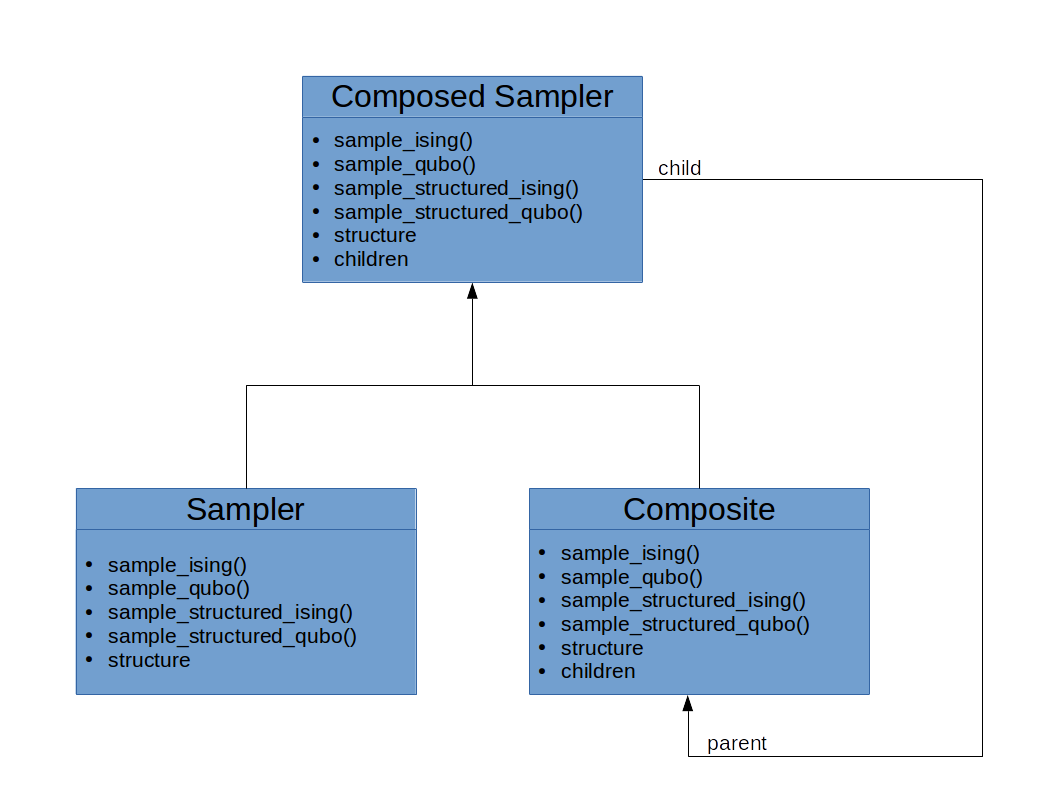
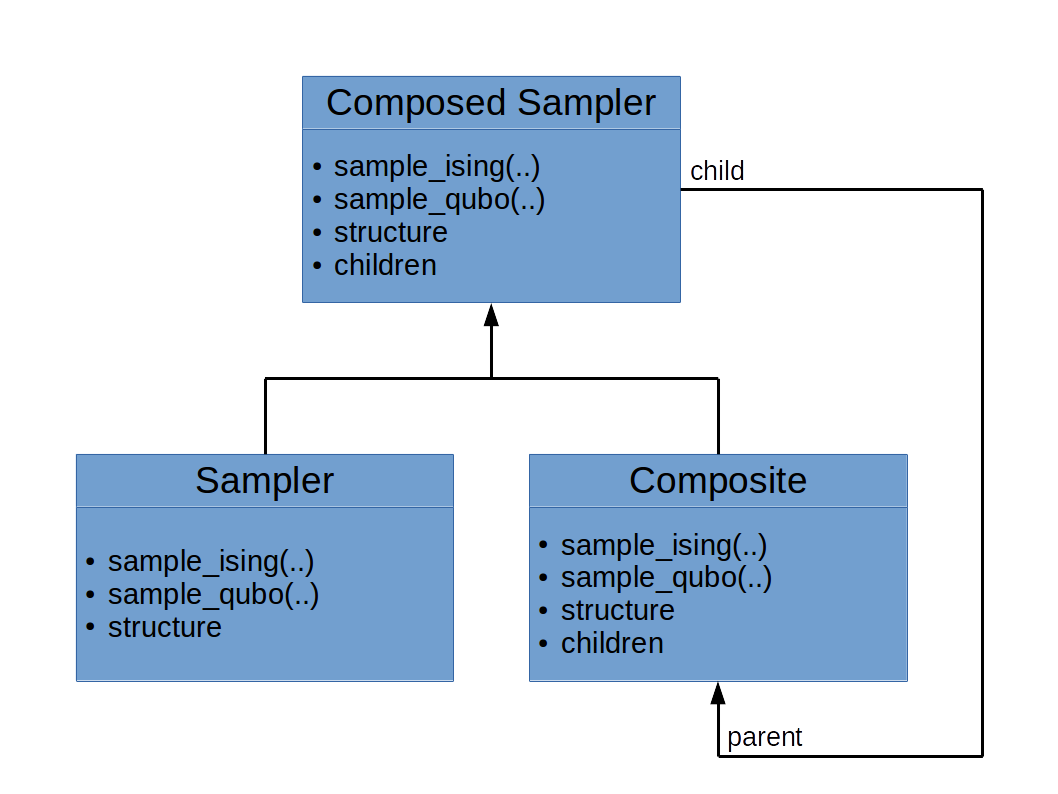
updated documenation to reflect removal of structured methods

Changed region(s): [[0.2495, 0.0907, 0.9357, 0.9673], [0.0624, 0.5441, 0.4367, 0.8766]]

diff --git a/docs/samplers/simulatedannealing.rst b/docs/samplers/simulatedannealing.rst
@@ -6,4 +6,4 @@ SimulatedAnnealingSampler
 .. automodule:: dimod.samplers.simulated_annealing
 
 .. autoclass:: SimulatedAnnealingSampler
-   :members: sample_qubo, sample_ising, sample_structured_qubo, sample_structured_ising
+   :members: sample_qubo, sample_ising

diff --git a/docs/composites/spin_transform.rst b/docs/composites/spin_transform.rst
@@ -6,4 +6,4 @@ SpinReversalTransform
 .. automodule:: dimod.composites.spin_transform
 
 .. autoclass:: SpinReversalTransform
-   :members: sample_qubo, sample_ising, sample_structured_qubo, sample_structured_ising
+   :members: sample_qubo, sample_ising

diff --git a/docs/sampler_template.rst b/docs/sampler_template.rst
@@ -17,8 +17,6 @@ TemplateSampler methods
 
    TemplateSampler.sample_ising
    TemplateSampler.sample_qubo
-   TemplateSampler.sample_structured_ising
-   TemplateSampler.sample_structured_qubo
 
 TemplateSampler properties
 --------------------------

diff --git a/docs/samplers/randomsampler.rst b/docs/samplers/randomsampler.rst
@@ -6,4 +6,4 @@ RandomSampler
 .. automodule:: dimod.samplers.random_sampler
 
 .. autoclass:: RandomSampler
-   :members: sample_qubo, sample_ising, sample_structured_qubo, sample_structured_ising
+   :members: sample_qubo, sample_ising

diff --git a/docs/samplers/exactsolver.rst b/docs/samplers/exactsolver.rst
@@ -6,4 +6,4 @@ ExactSolver
 .. automodule:: dimod.samplers.brute_force
 
 .. autoclass:: ExactSolver
-   :members: sample_qubo, sample_ising, sample_structured_qubo, sample_structured_ising
+   :members: sample_qubo, sample_ising
